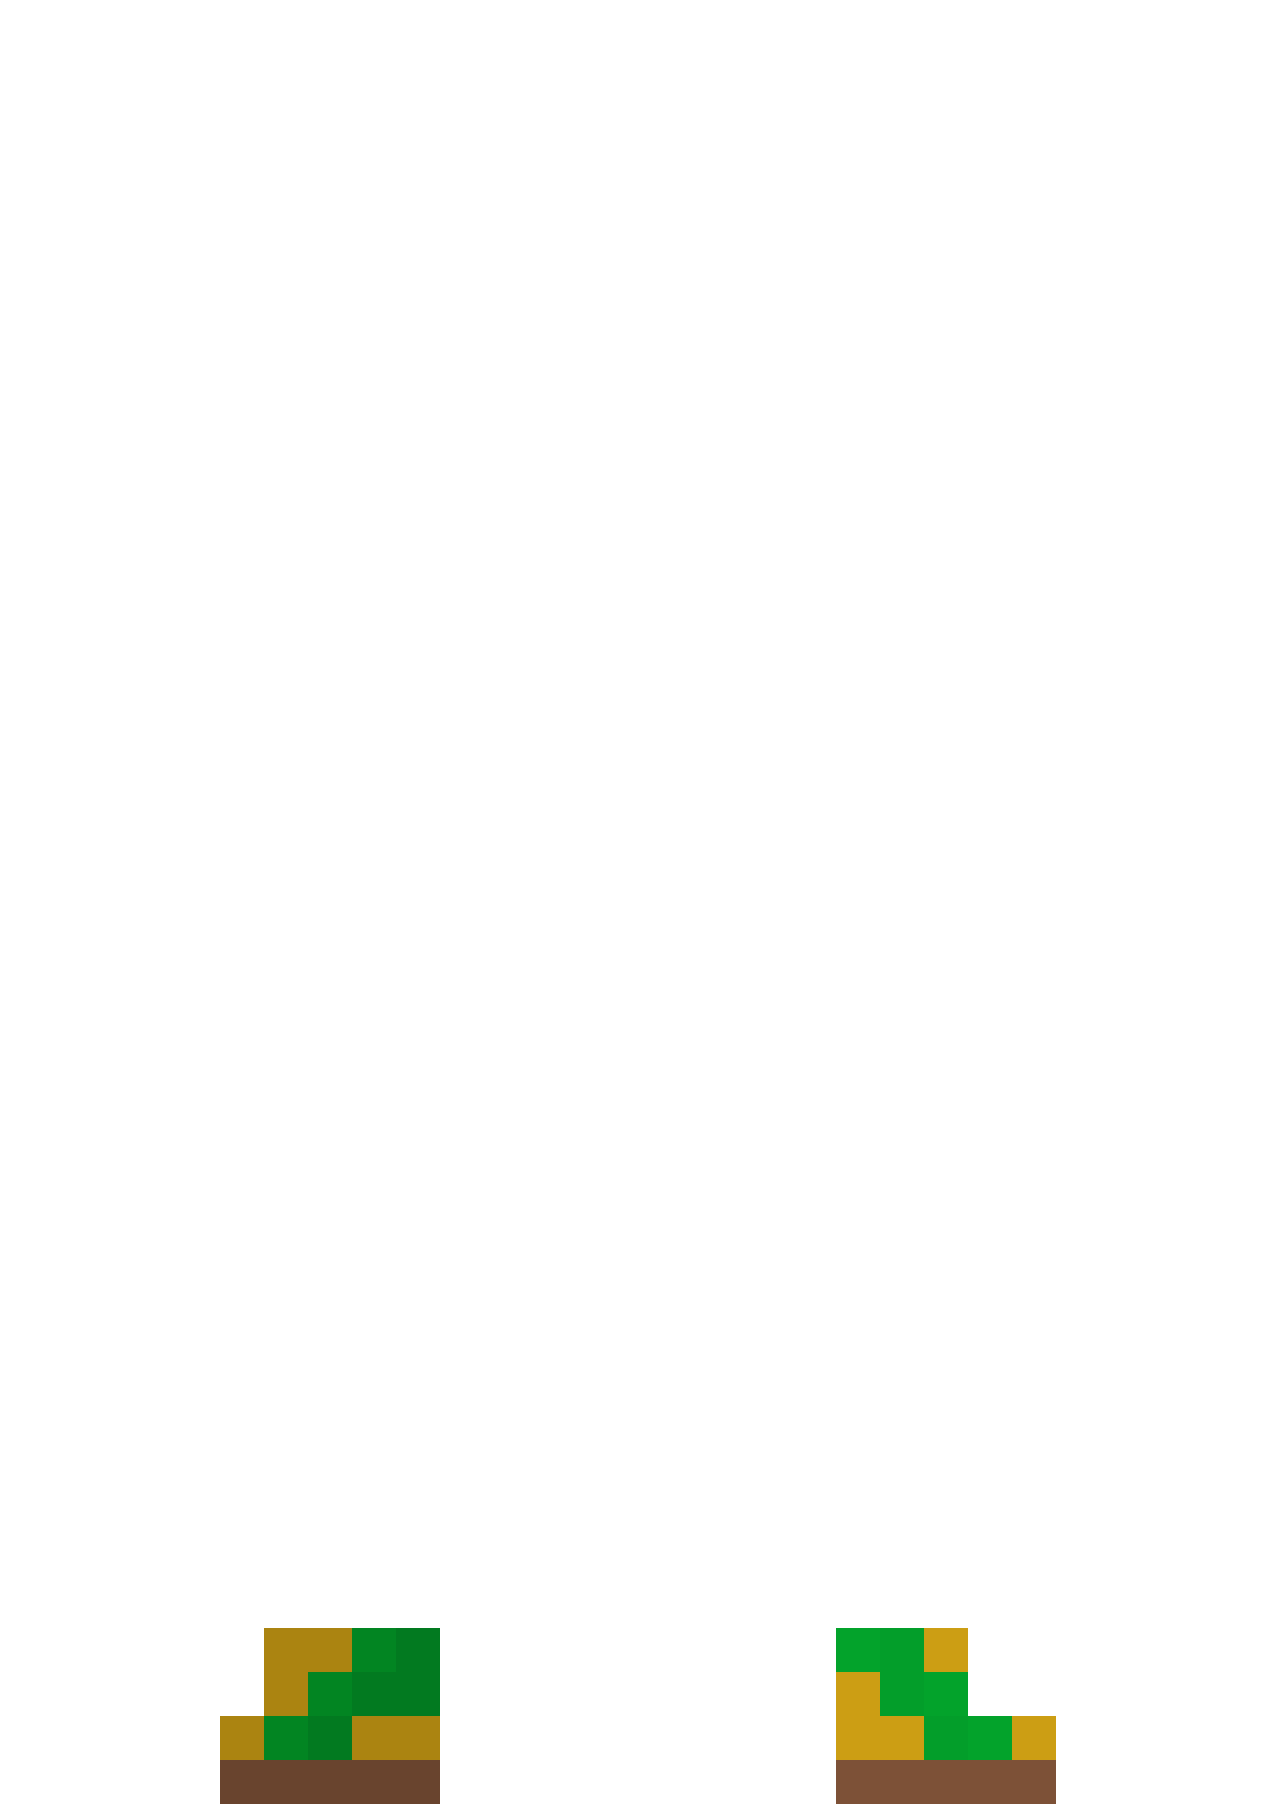
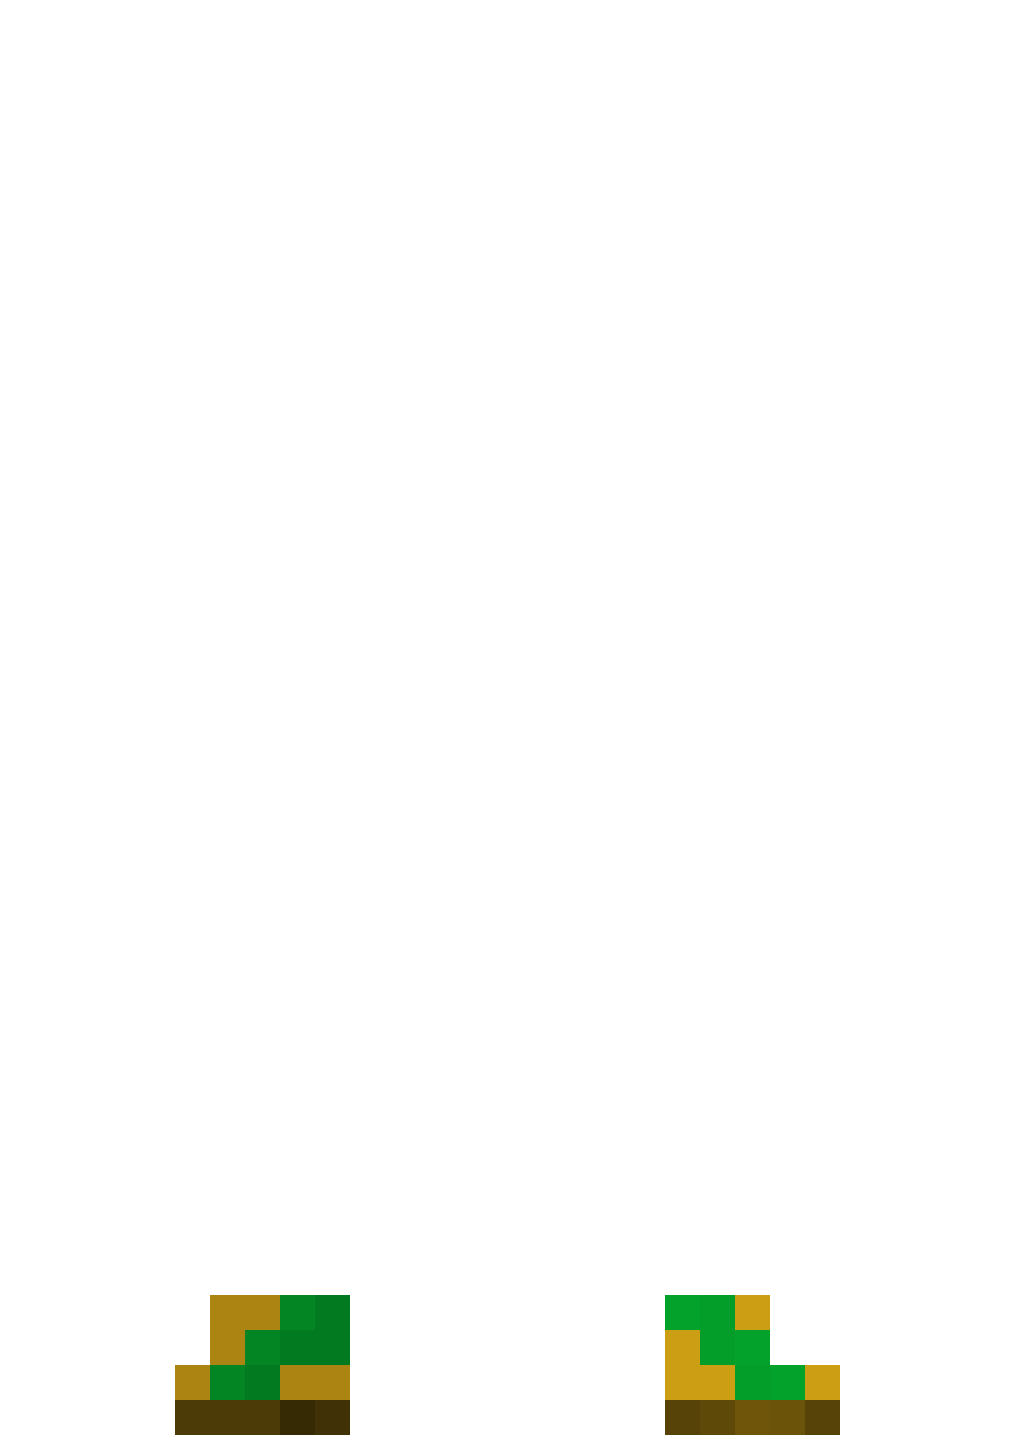
Add all character parts

Changed region(s): [[0.1527, 0.9505, 0.3665, 1.0], [0.6414, 0.9505, 0.8246, 1.0]]

diff --git a/generate_img/gen.py b/generate_img/gen.py
@@ -1,8 +1,8 @@
 from PIL import Image
 import os
 
-NO_MATERIALS = 2
-items = ['helmet', 'armor', 'shoes', 'sword']
+NO_MATERIALS = 5
+items = ['helmet', 'armor', 'shoes', 'weapon']
 
 directory_name = "res"
 if not os.path.isdir(directory_name):
@@ -15,7 +15,7 @@ for i in range(NO_MATERIALS):
         index = [i, j, k, l]
         finalImage = Image.open(f'img/{items[0]}_{index[0]}.png')
         for m in range(1, len(items)):
-          if l == 0 and items[m] == 'sword': 
+          if l == 0 and items[m] == 'weapon': 
             continue
           layer = Image.open(f'img/{items[m]}_{index[m]}.png')
           finalImage.paste(layer, (0, 0), layer)
